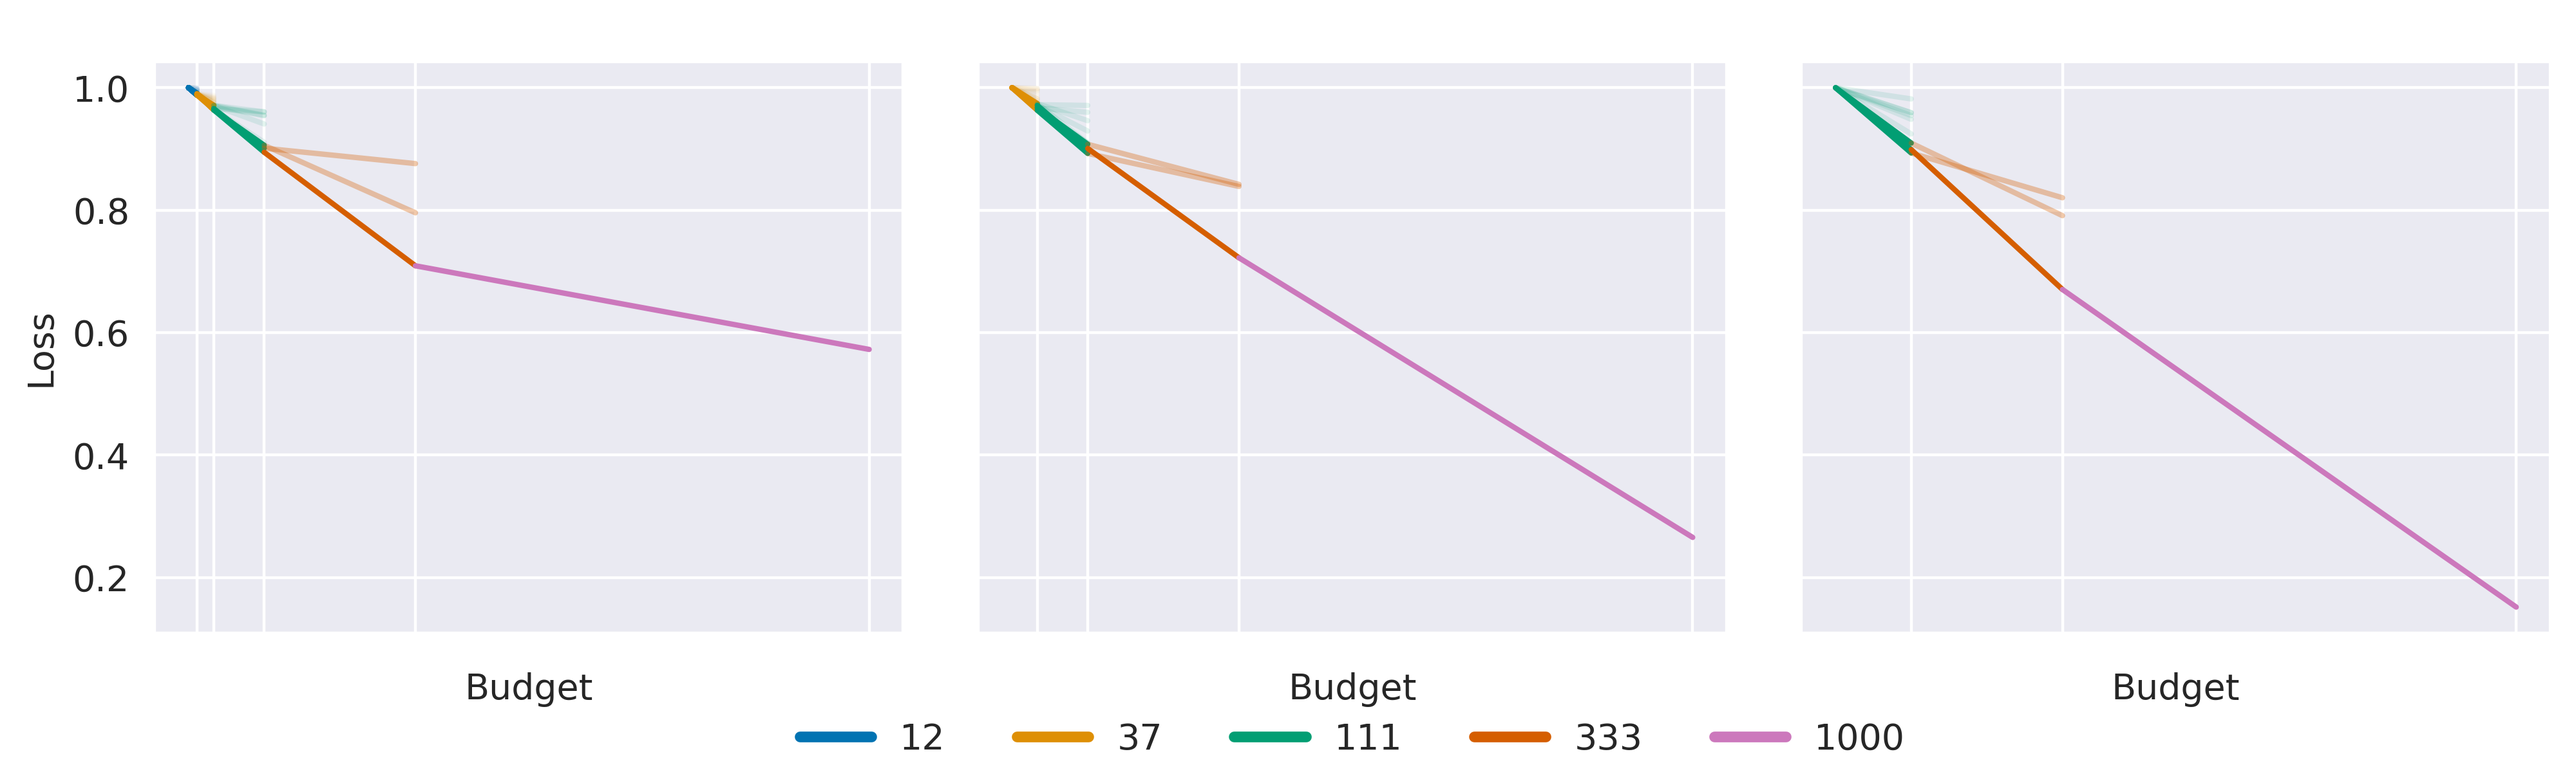
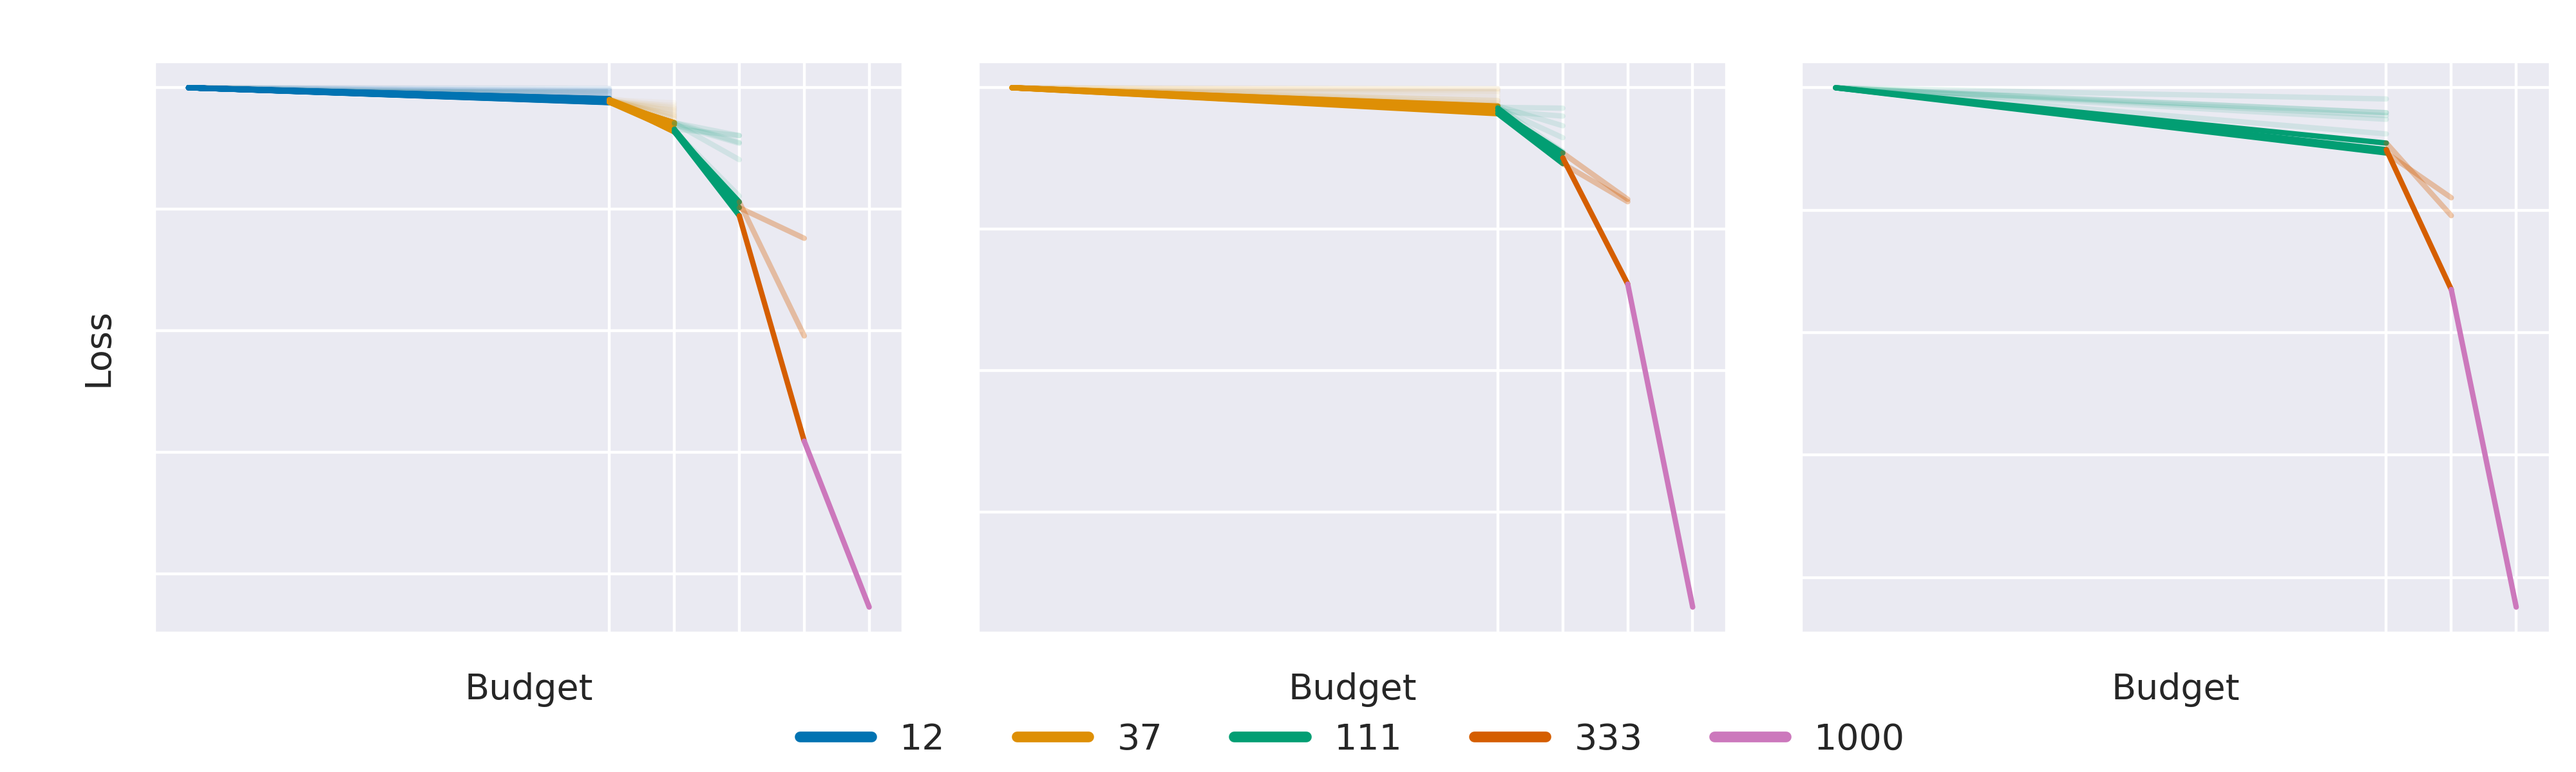
hyperband plot for presentation

diff --git a/mockup_plots/hyperband.py b/mockup_plots/hyperband.py
@@ -76,7 +76,6 @@ def plot_mockup_points(
         1,
         n_stages - 2,
         figsize=(10, 3),
-        sharey=True,
     )
 
     axes = axes.flatten()
@@ -118,8 +117,10 @@ def plot_mockup_points(
                     alpha=alpha,
                 )
 
+        ax.set_xscale("log")
         ax.set_xticks(np.unique(performance_stage["Budget"]))
         ax.set_xticklabels([])
+        ax.set_yticklabels([])
         ax.set_xlabel("Budget")
 
     # We use the budgets and colors from palette as handles and labels
